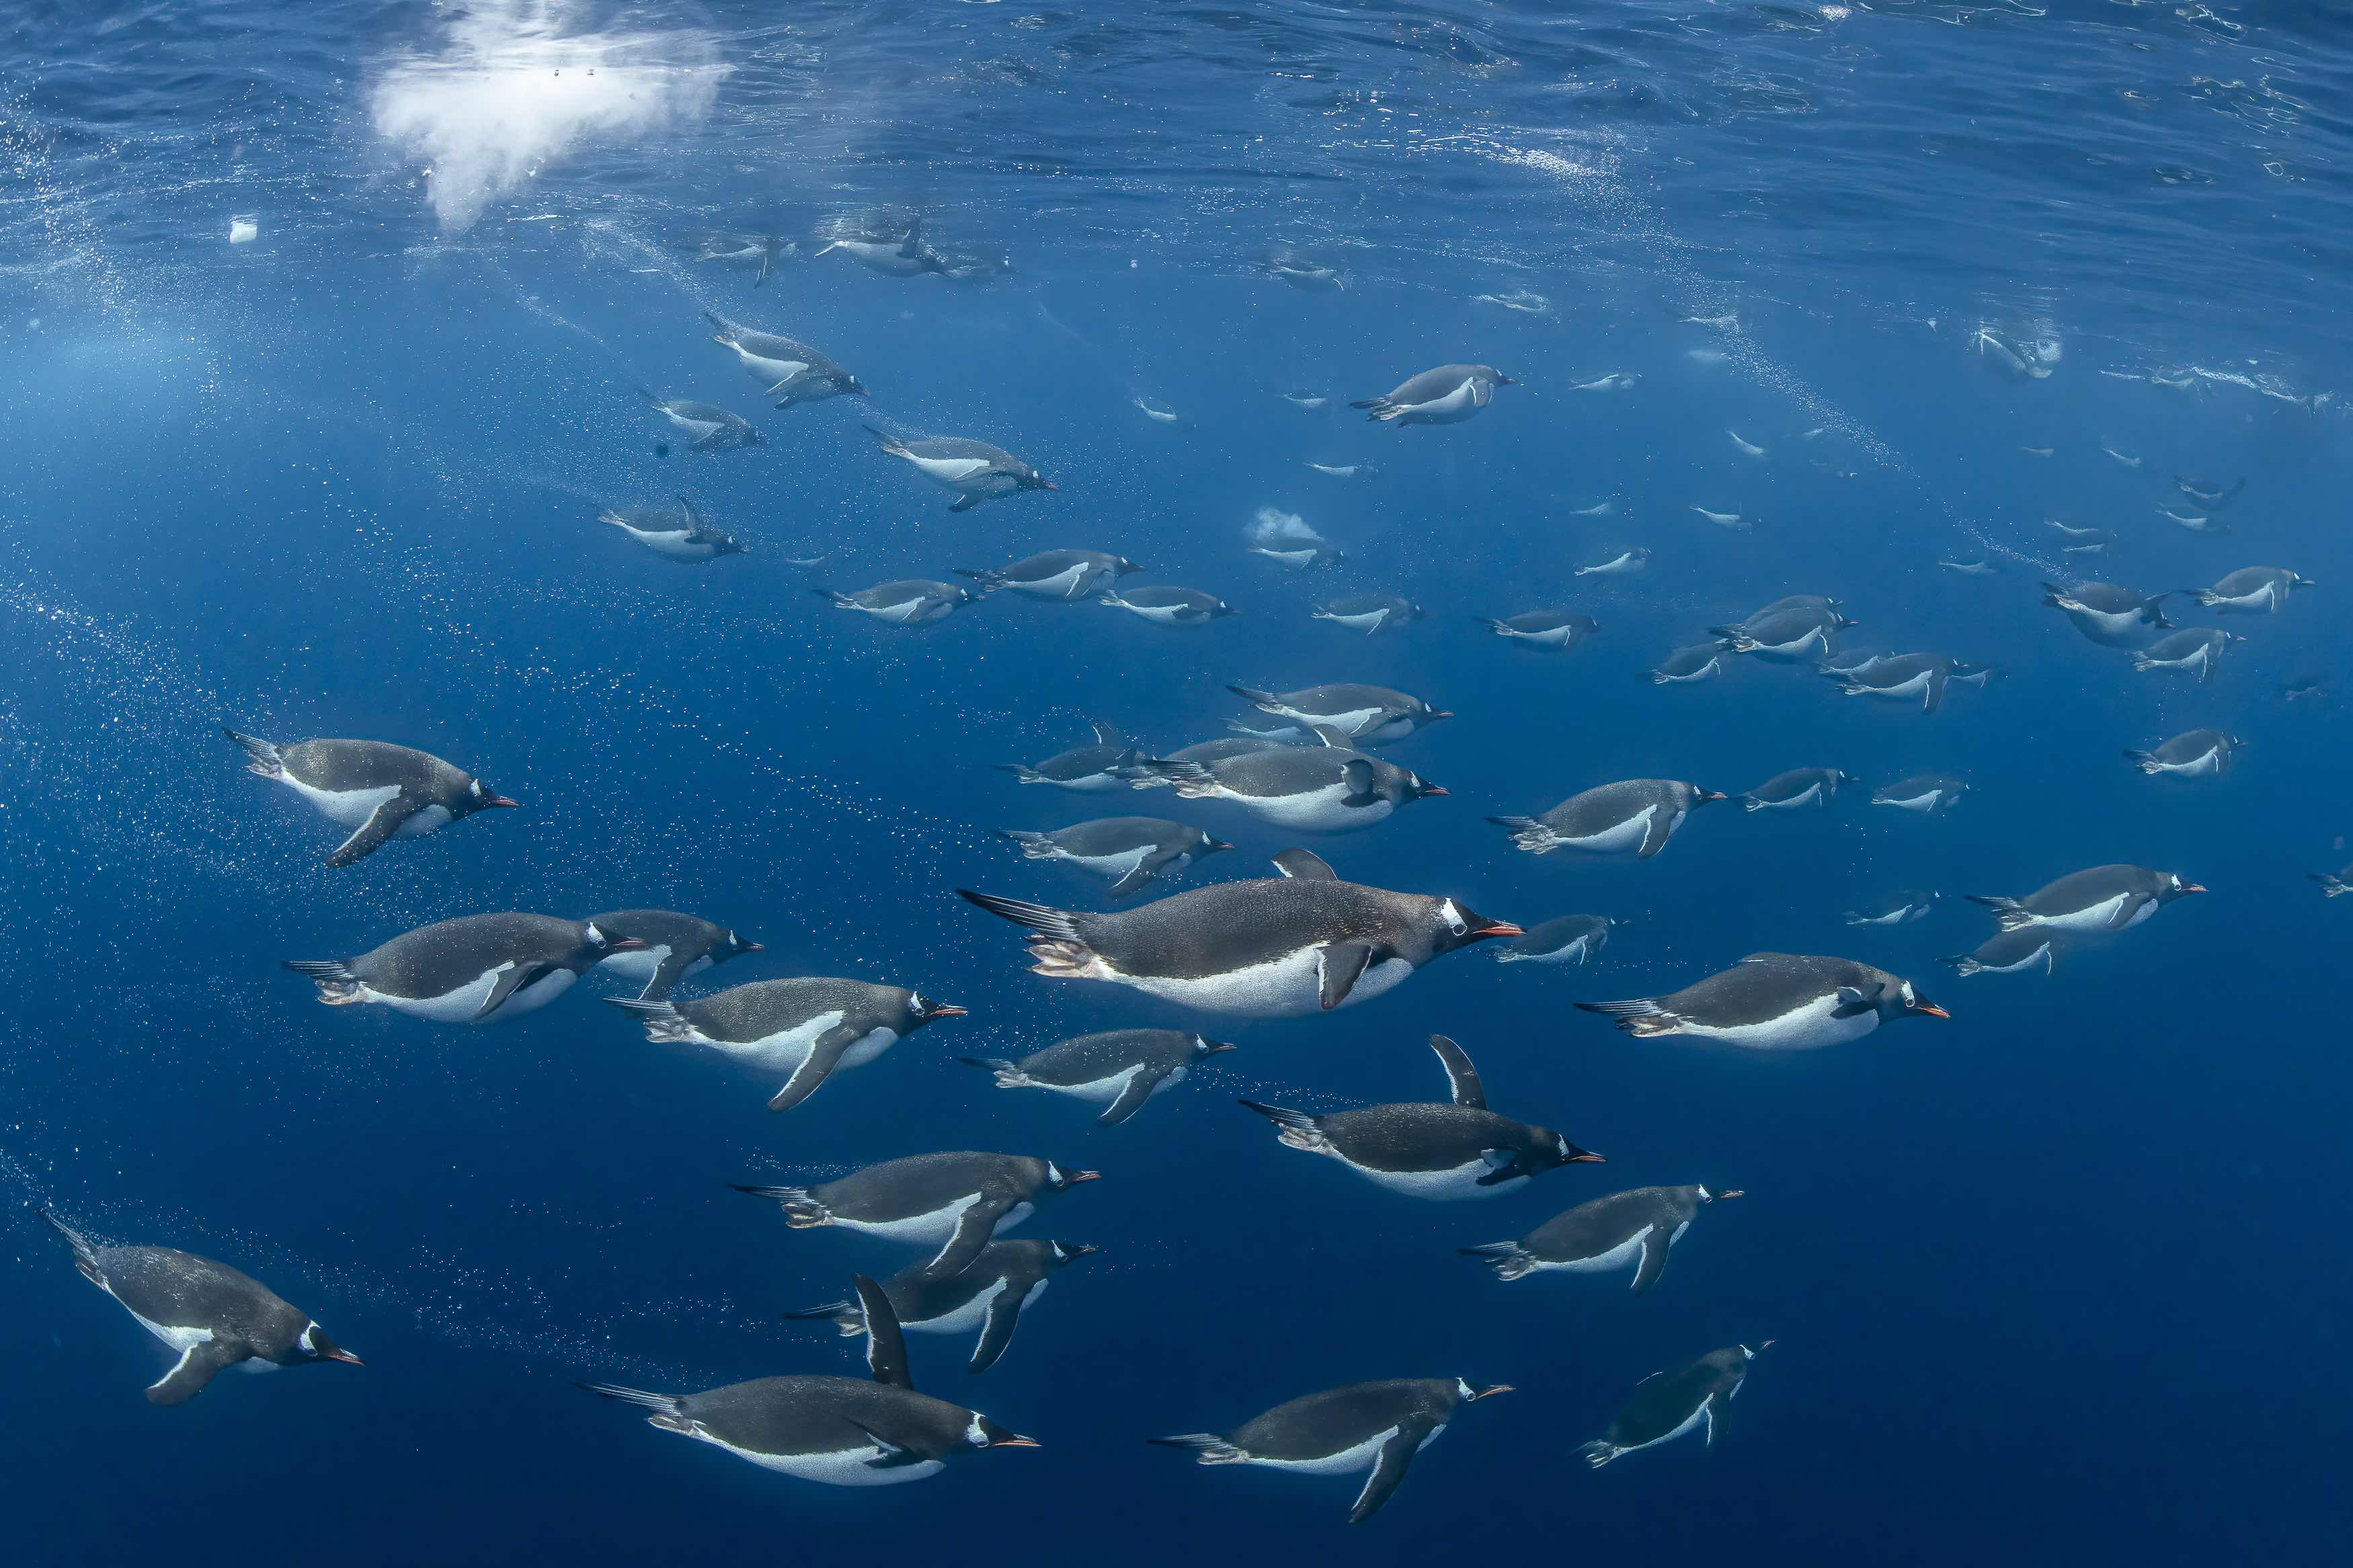
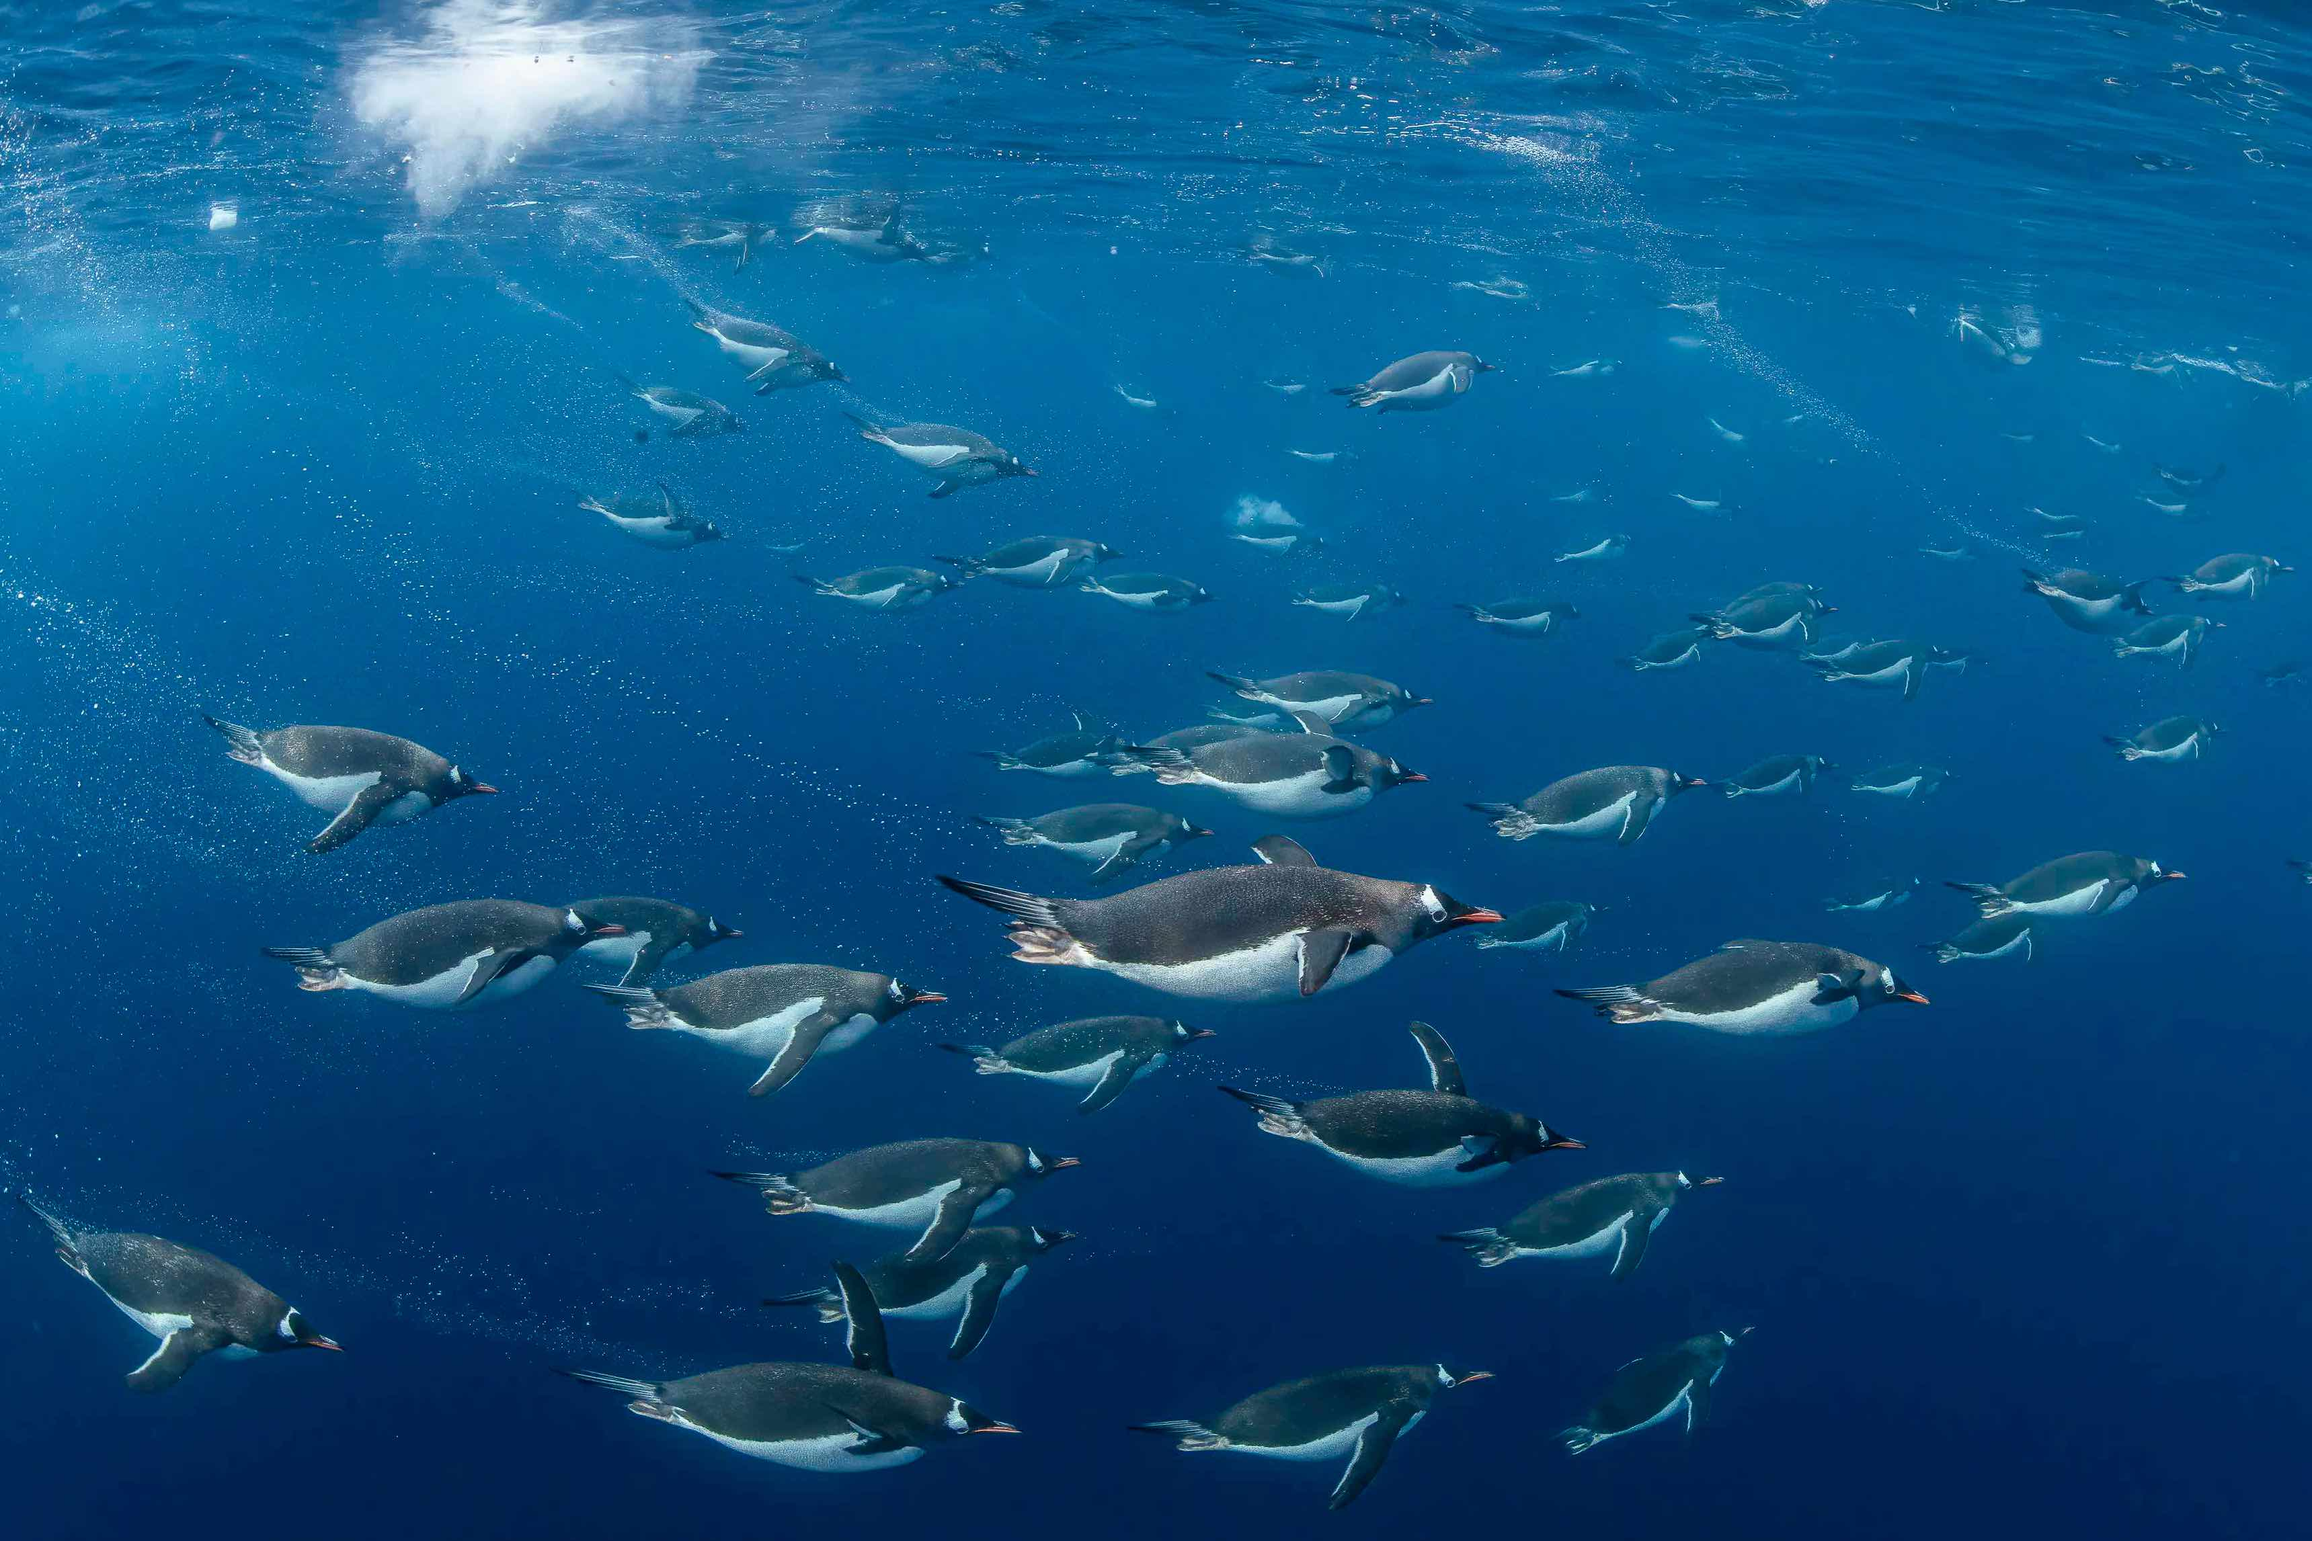
add carousel and change the photo's size

diff --git a/index.html b/index.html
@@ -55,5 +55,78 @@
             </dialog>
         </div>
     </nav>
+    <main class="container mt-5">
+
+        <h1 class="mb-4">Ocean Wonders</h1>
+        <div id="oceanCarousel" class="carousel carousel-overlay slide">
+            <div class="carousel-inner rounded-5">
+
+                <div class="carousel-item active">
+                    <img src="images/banner1.jpeg"
+                         class="d-block w-100"
+                         alt="A manta ray swimming above a shallow sandy seabed">
+                </div>
+                <div class="carousel-item">
+                    <img src="images/banner2.jpeg"
+                         class="d-block w-100"
+                         alt="A group of penguins swimming through blue ocean water">
+                </div>
+                <div class="carousel-item">
+                    <img src="images/banner3.jpeg"
+                         class="d-block w-100"
+                         alt="Sunlight shining into a deep underwater cave">
+                </div>
+            </div>
+            <div class="carousel-overlay-controls">
+                <div>
+                    <button class="btn-icon btn-sm btn-subtle theme-secondary"
+                            type="button"
+                            data-bs-target="#oceanCarousel"
+                            data-bs-slide="prev">
+
+                        <span class="carousel-icon-prev" aria-hidden="true"></span>
+                        <span class="visually-hidden">Previous</span>
+                    </button>
+                    <button class="btn-icon btn-sm btn-subtle theme-secondary"
+                            type="button"
+                            data-bs-target="#oceanCarousel"
+                            data-bs-slide="next">
+
+                        <span class="carousel-icon-next" aria-hidden="true"></span>
+                        <span class="visually-hidden">Next</span>
+                    </button>
+                </div>
+                <div class="carousel-indicators">
+
+                    <button type="button"
+                            data-bs-target="#oceanCarousel"
+                            data-bs-slide-to="0"
+                            class="active"
+                            aria-current="true"
+                            aria-label="Slide 1">
+                    </button>
+
+                    <button type="button"
+                            data-bs-target="#oceanCarousel"
+                            data-bs-slide-to="1"
+                            aria-label="Slide 2">
+                    </button>
+
+                    <button type="button"
+                            data-bs-target="#oceanCarousel"
+                            data-bs-slide-to="2"
+                            aria-label="Slide 3">
+                    </button>
+                </div>
+            </div>
+        </div>
+        <h2 class="mt-5 mb-4">Explore Marine Life</h2>
+    </main>
+    <footer class="container-fluid mt-5">
+        <p class="p-3 bg-1 border d-flex justify-content-center">
+            © 2026 Ocean Wonders
+        </p>
+    </footer>
+
 </body>
 </html>
